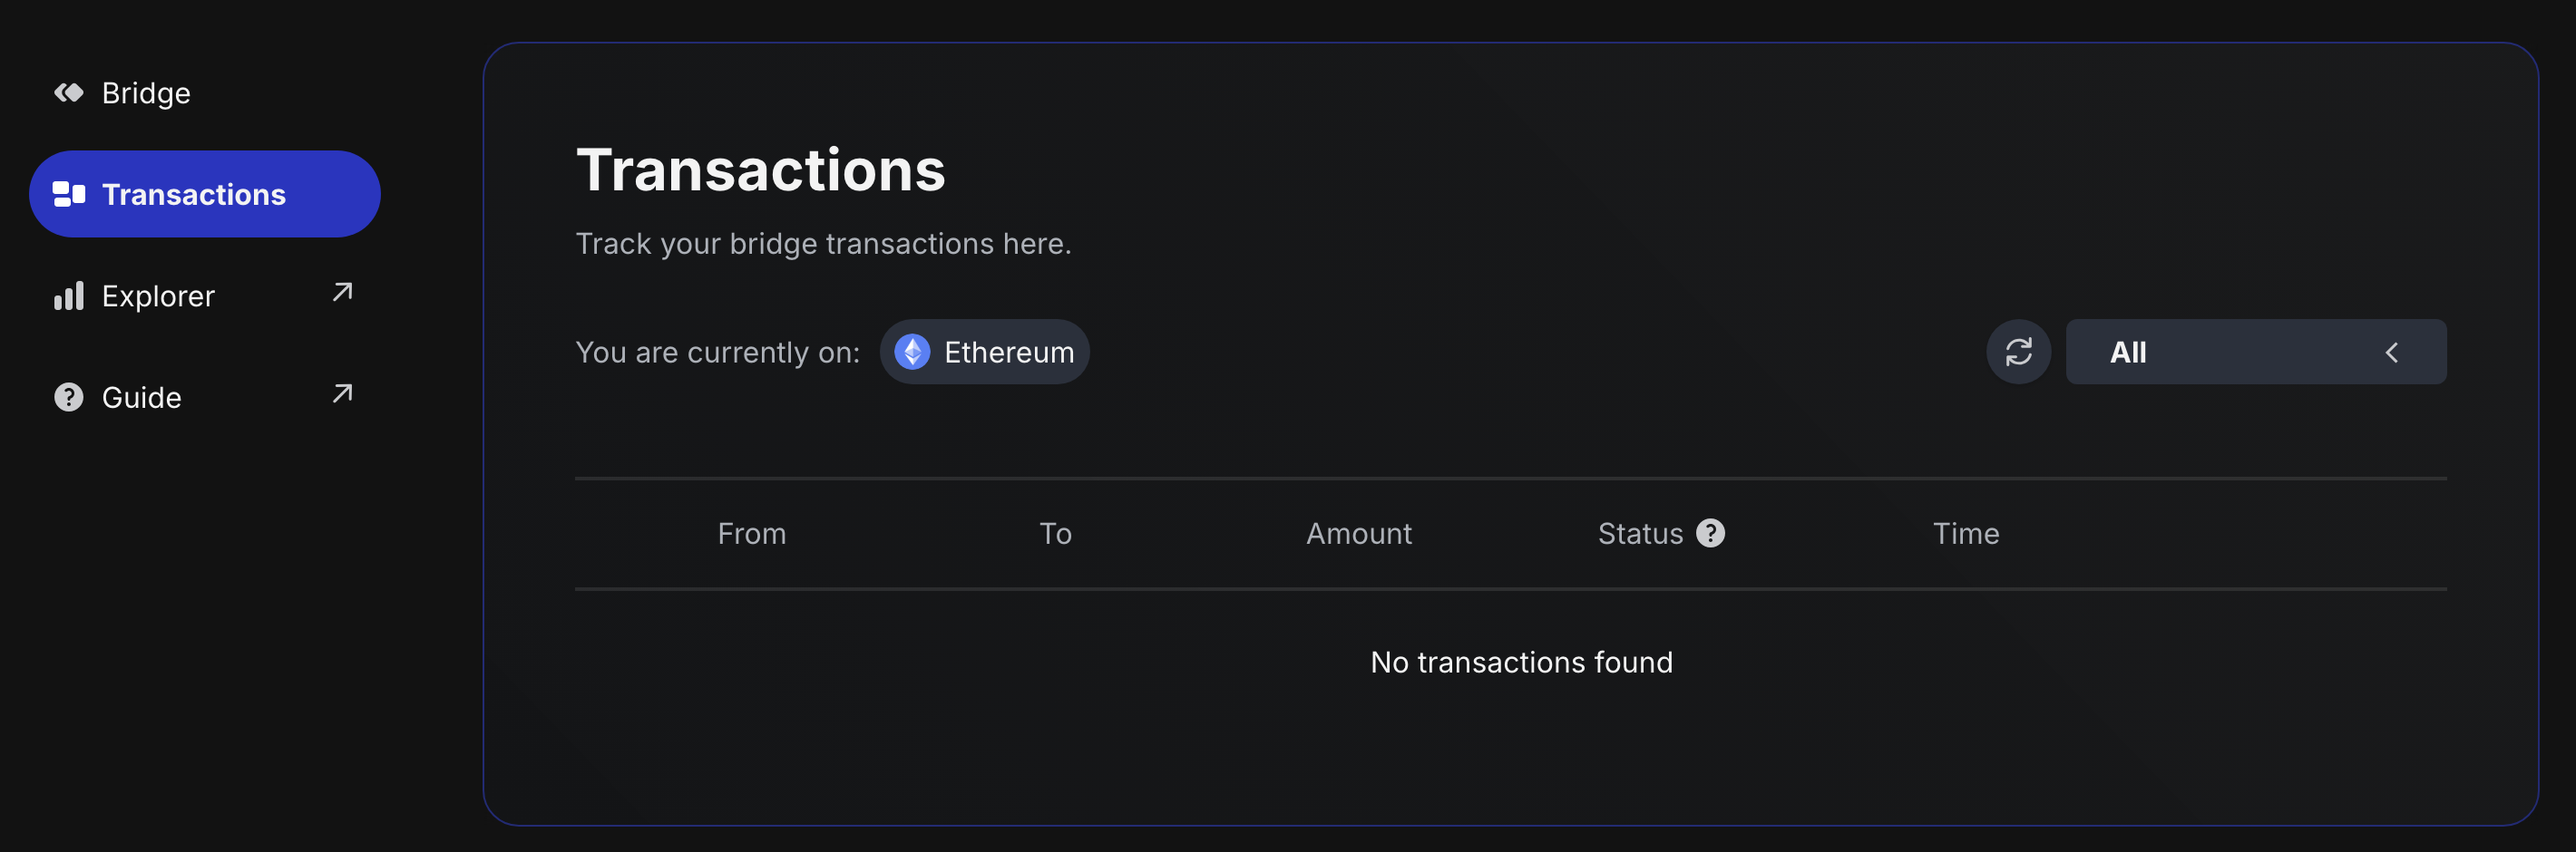
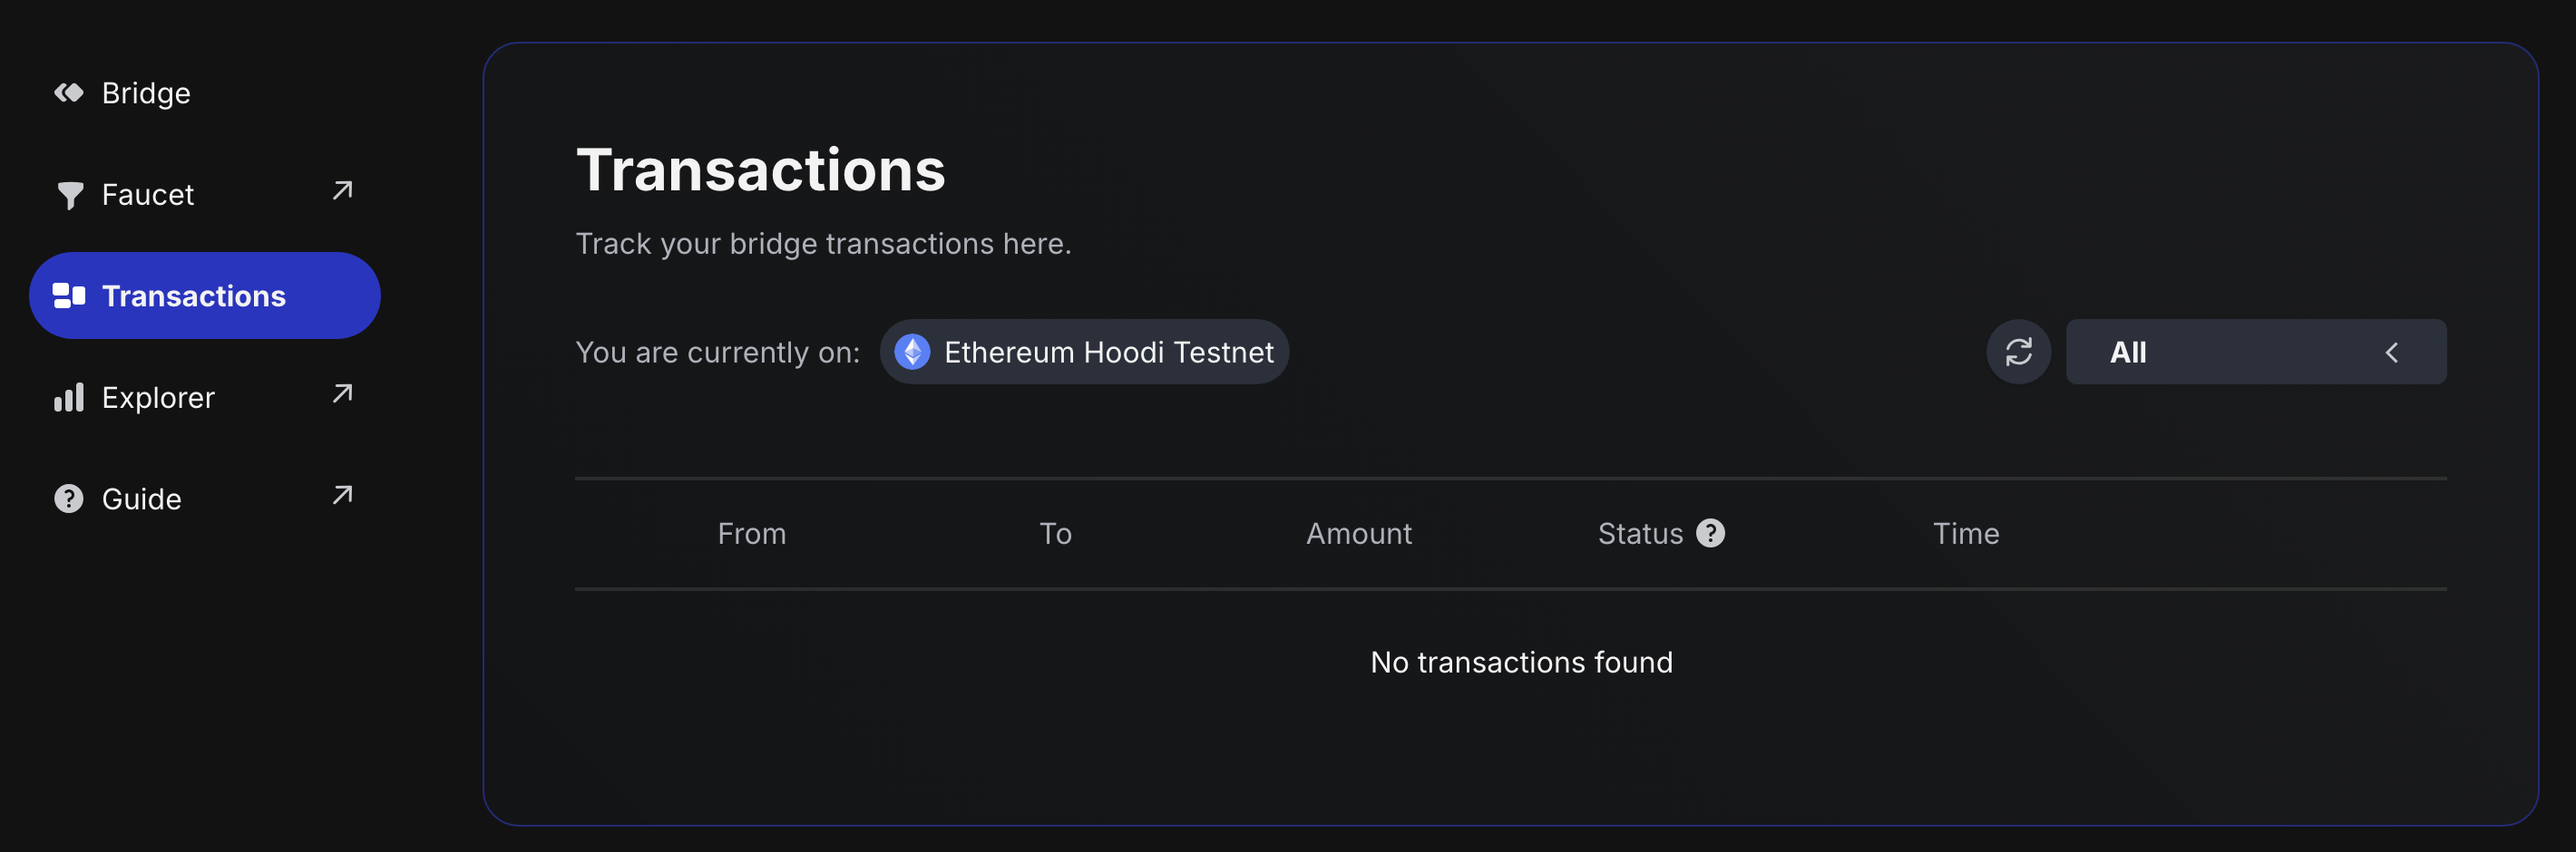
docs: point the bridge guide at testnet and require an EOA wallet
Use the testnet bridge (testnet-unifi-bridge.puffer.fi) with Hoodi
(chain ID 560048) and Puffer UniFi Testnet (chain ID 2092151908)
instead of mainnet, and recapture the screenshots from it. Say the
bridge needs an EOA wallet, since contract wallets such as Safe can't
deposit through the app.

diff --git a/docs/developers/getting-started/bridge-ui.md b/docs/developers/getting-started/bridge-ui.md
@@ -5,17 +5,19 @@ slug: /developers/getting-started/bridge-ui
 
 # Using the Puffer UniFi Bridge
 
-The [Puffer UniFi Bridge](https://bridge-unifi.puffer.fi/) moves ETH between Ethereum mainnet and Puffer UniFi.
-You need a compatible wallet, such as MetaMask or Rabby, and some ETH on the chain you are bridging from.
+The [Puffer UniFi Testnet Bridge](https://testnet-unifi-bridge.puffer.fi/) moves ETH between the Hoodi testnet and Puffer UniFi Testnet.
+You need an EOA wallet, such as MetaMask or Rabby, and some ETH on the chain you are bridging from.
+Contract wallets, such as Safe, can't deposit through the bridge app.
+To get testnet ETH, see [Acquire Testnet Tokens](./acquire-testnet-tokens.md).
 
-| Network         | Chain ID | Bridge role |
-| --------------- | -------- | ----------- |
-| Ethereum        | `1`      | L1          |
-| Puffer UniFi    | `8686`   | L2          |
+| Network                | Chain ID     | Bridge role |
+| ---------------------- | ------------ | ----------- |
+| Ethereum Hoodi Testnet | `560048`     | L1          |
+| Puffer UniFi Testnet   | `2092151908` | L2          |
 
 ## How to bridge (deposit) ETH to Puffer UniFi
 
-1. Open the [Puffer UniFi Bridge](https://bridge-unifi.puffer.fi/).
+1. Open the [Puffer UniFi Testnet Bridge](https://testnet-unifi-bridge.puffer.fi/).
 2. Click **Connect wallet** and choose your wallet.
 
    ![Connecting the wallet](/img/bridge/connect-wallet.png)
@@ -23,8 +25,8 @@ You need a compatible wallet, such as MetaMask or Rabby, and some ETH on the cha
    Once connected, your balance and address appear in the top right corner.
 
    ![Connected wallet](/img/bridge/wallet-connected.png)
-3. Make sure **Ethereum** is the source chain and **Puffer UniFi** is the destination chain.
-   If your wallet is on Ethereum, the bridge fills these in for you. You can also pick a chain from the source chain list.
+3. Make sure **Ethereum Hoodi Testnet** is the source chain and **Puffer UniFi Testnet** is the destination chain.
+   If your wallet is on Hoodi, the bridge fills these in for you. You can also pick a chain from the source chain list.
 
    ![Chain selection](/img/bridge/select-chain.png)
 4. Select **ETH**, enter the amount you want to bridge, and press **Continue**.
@@ -46,18 +48,18 @@ You need a compatible wallet, such as MetaMask or Rabby, and some ETH on the cha
    **Failed** means the transfer did not go through.
 
    ![Transactions tab](/img/bridge/transaction-tab.png)
-8. Once the status is **Succeed**, switch your wallet to Puffer UniFi to see your bridged funds.
+8. Once the status is **Succeed**, switch your wallet to Puffer UniFi Testnet to see your bridged funds.
 
 ## How to bridge (withdraw) ETH from Puffer UniFi
 
-1. Select **Puffer UniFi** as the source chain and **Ethereum** as the destination chain.
+1. Select **Puffer UniFi Testnet** as the source chain and **Ethereum Hoodi Testnet** as the destination chain.
    You can press the swap button (⇅) between the two chains to reverse the direction.
 
    ![Withdrawal chain selection](/img/bridge/select-token-l2.png)
 
-2. The next steps are the same as for a deposit. Once the status is **Succeed**, switch your wallet to Ethereum to see your funds.
+2. The next steps are the same as for a deposit. Once the status is **Succeed**, switch your wallet to Hoodi to see your funds.
 
    :::info
    Withdrawals are processed automatically. There is no separate prove or claim step, and no seven-day
-   challenge period. Expect the funds to arrive on Ethereum after a few minutes.
+   challenge period. Expect the funds to arrive on Hoodi after a few minutes.
    :::
